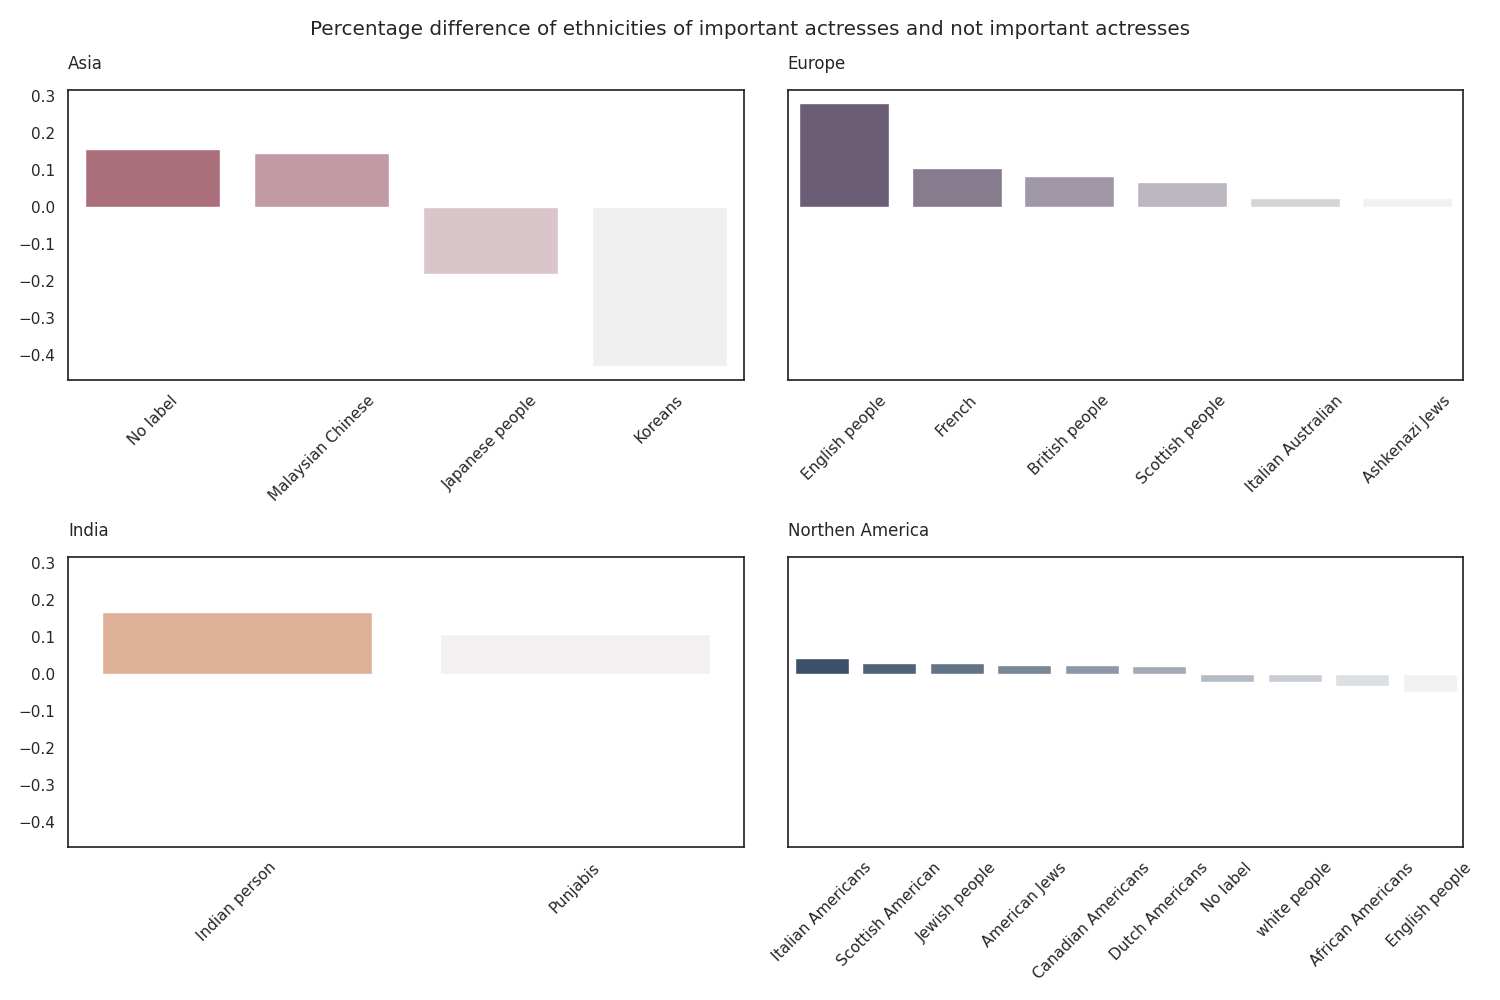
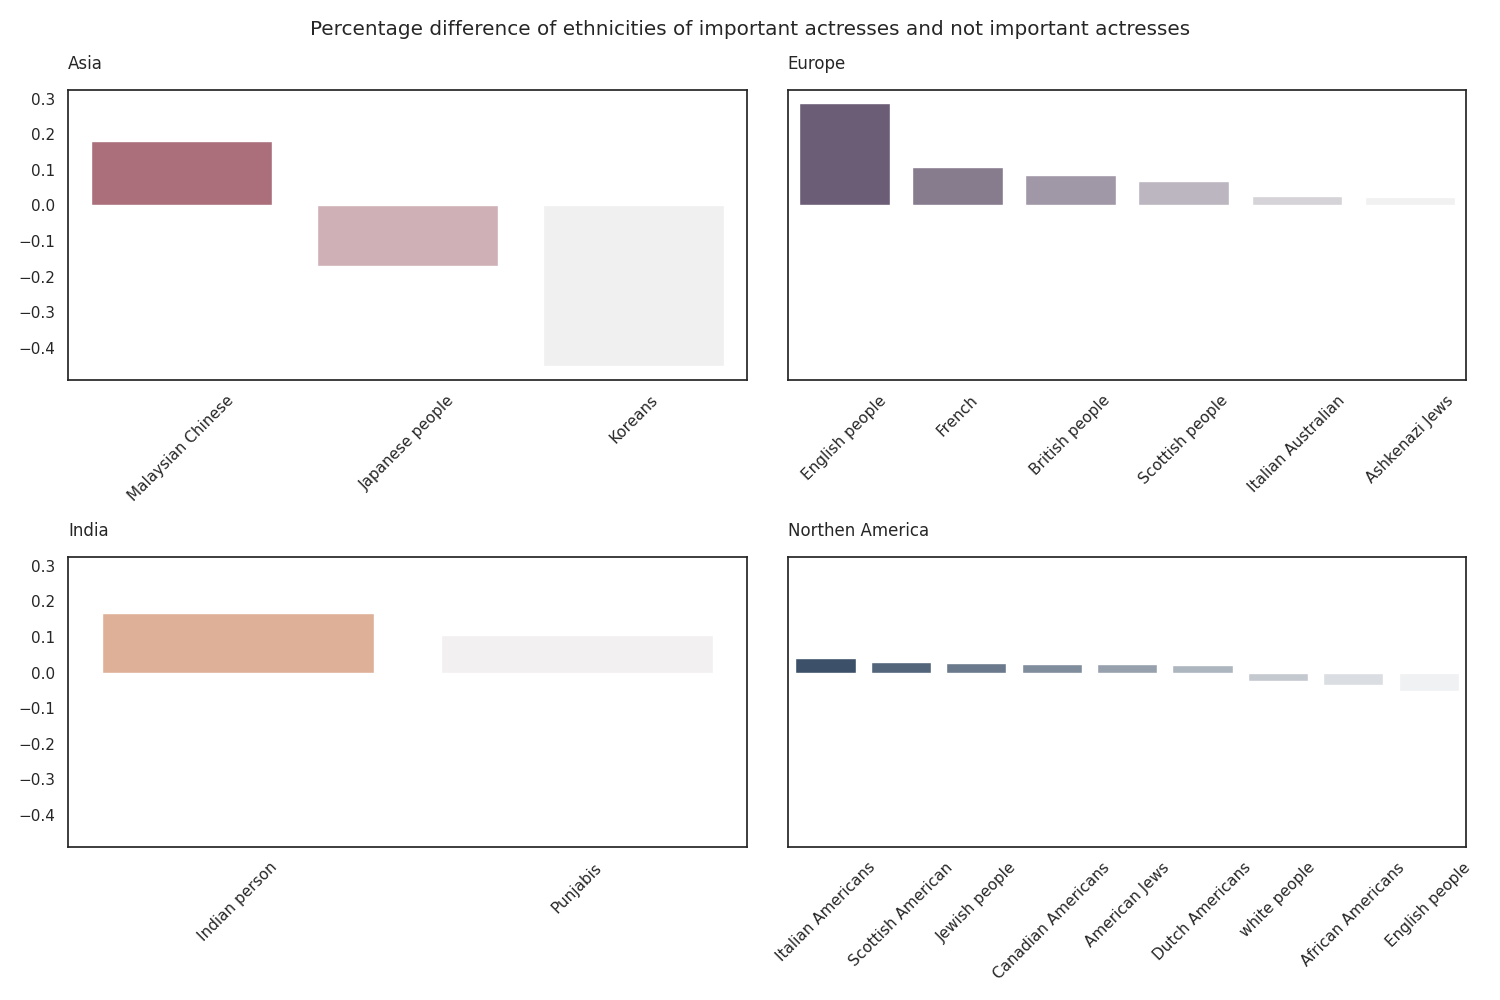
Update network analysis

diff --git a/_posts/2022-10-05-network.md b/_posts/2022-10-05-network.md
@@ -51,3 +51,5 @@ While certain ethnicities appear more prominently, this may not fully represent 
 ![Ethnicity Distribution Difference](plots/difference_actresses_ethnicity_distribution.png "Difference in ethnicity distribution" style="width: 100%;")
 
 This comparison reveals ethnicities more likely to be among the most influential. In Asia, 'Malaysian Chinese' emerge as a significant group, whereas 'Koreans' appear less influential. In Europe, 'English' actresses are more likely to be influential compared to their 'French' or 'British' counterparts. In India, 'Indian' and 'Punjabi' actresses show higher influence. North America presents a balanced scenario, with no clear trend in ethnic influence among actresses.
+
+Indeed, the underrepresentation of 'Korean' films in our dataset could account for the lower visibility of 'Korean' actresses among the most influential. With the rising popularity of Korean series in recent times, it would be intriguing to monitor how this trend develops and potentially influences the landscape in the future.
